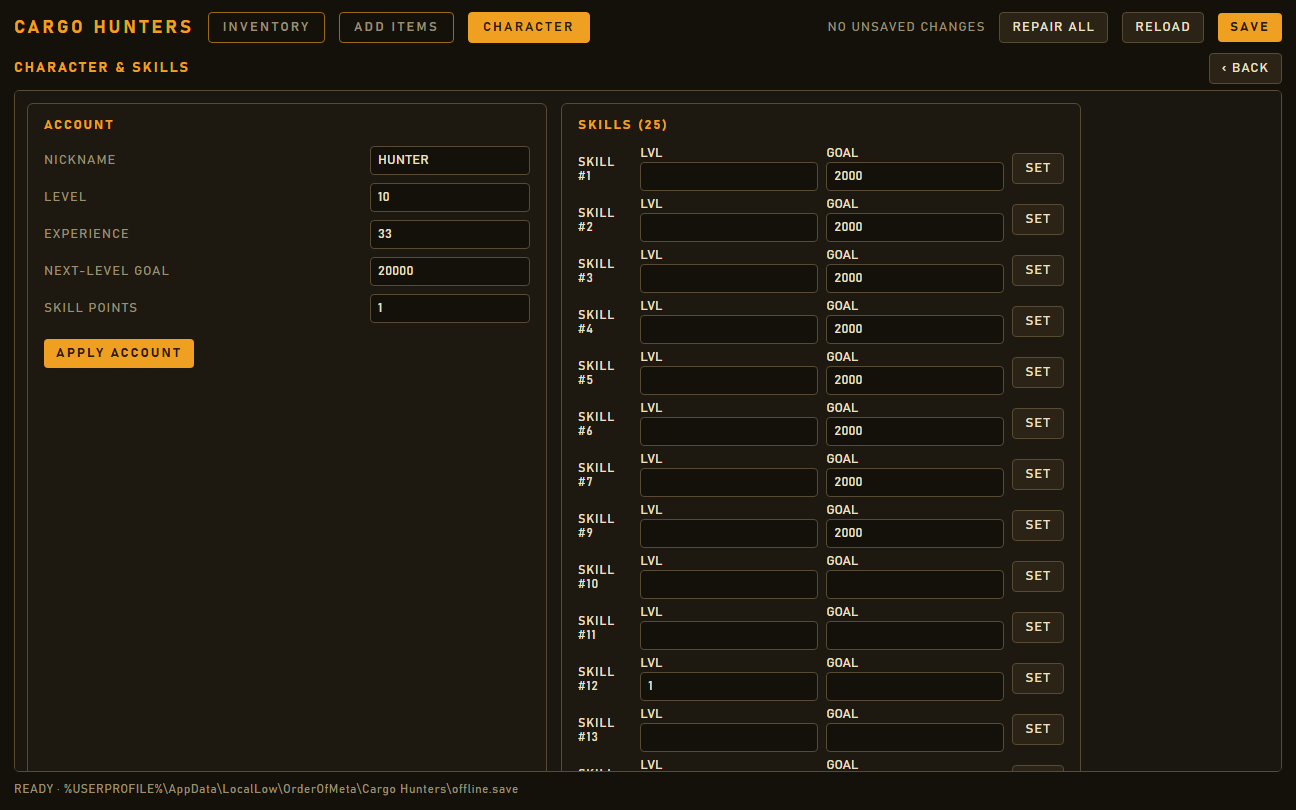
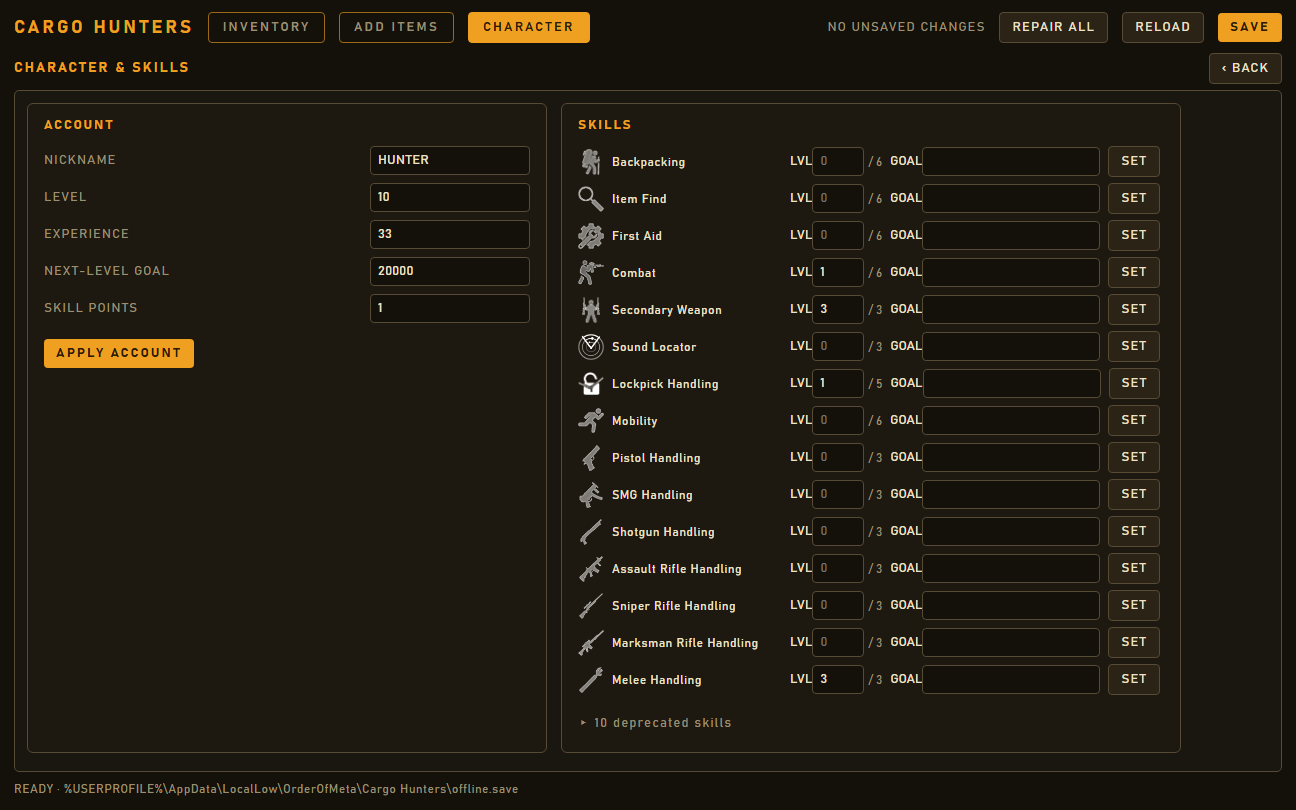
Refresh screenshots and README for current UI
New screenshots show the fixed paperdoll/footprints, named skills with icons and
levels, and the container pop-out. README feature list updated (repair-all,
container pop-out windows, named skills).

diff --git a/README.md b/README.md
@@ -5,10 +5,12 @@ Tarkov-style screen — the robot's body parts laid out on a paperdoll silhouett
 with worn gear in side rails, and the stash on an accurate grid — and lets you:
 
 - edit any item's stack quantity, condition, and durability;
-- repair / refill / top-off items in one click;
+- repair / refill / top-off a single item — or **everything at once**;
 - move items on the grid (drag-and-drop), split stacks, delete items;
+- open containers (cases, weapons, ammo boxes) in their own **pop-out windows**;
 - add any catalog item to a chosen container;
-- edit character nickname, level, XP, skill points, and per-skill levels.
+- edit character nickname, level, XP, skill points, and per-skill levels —
+  skills are shown by **name and icon** with their current/max level.
 
 Edits are **staged in memory** — nothing is written until you press **SAVE**,
 which makes a timestamped backup, writes atomically, and then re-reads the file
